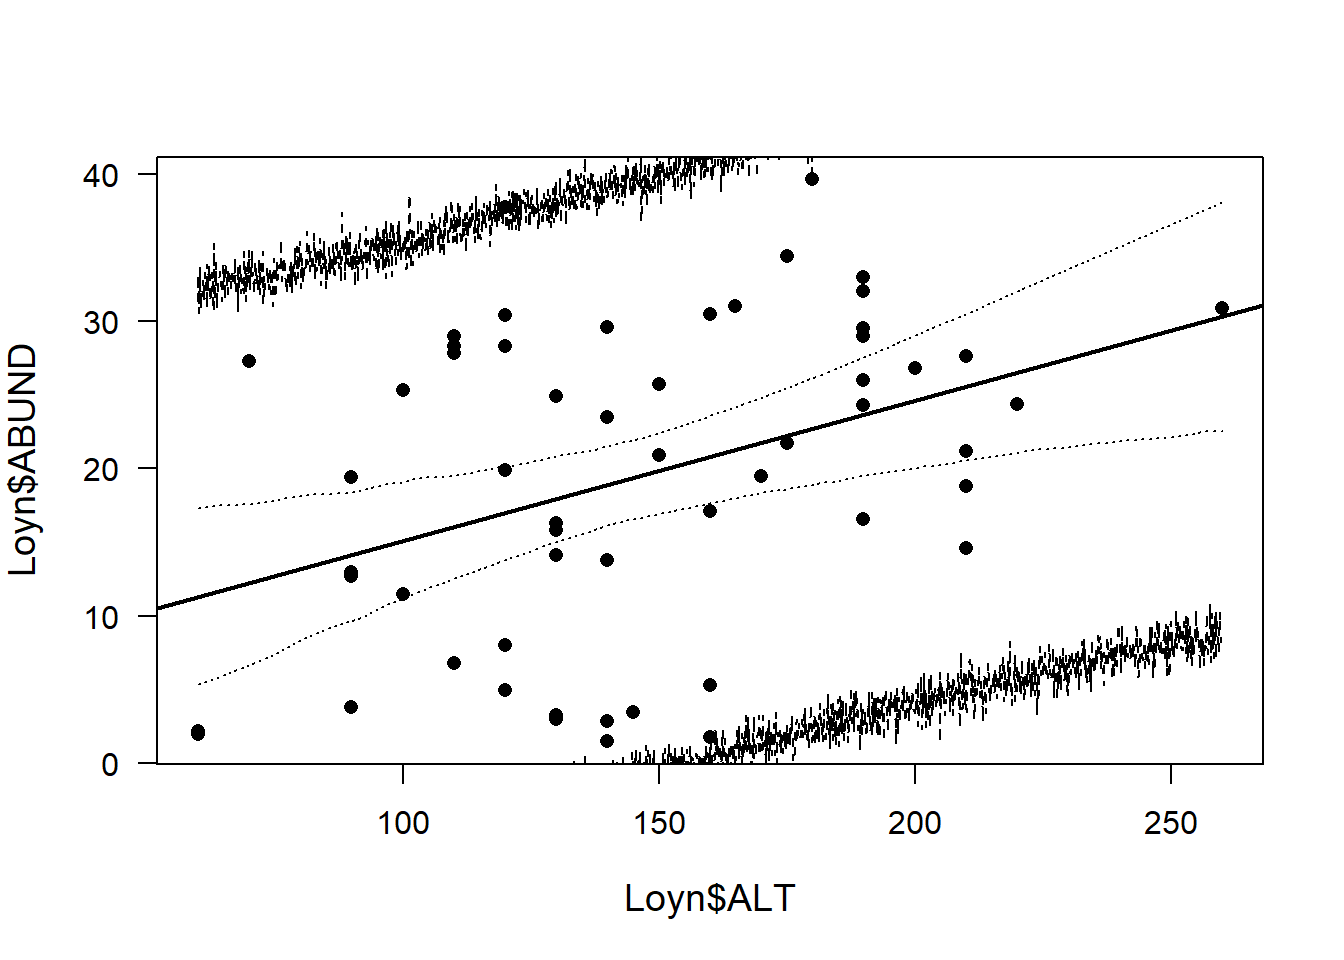
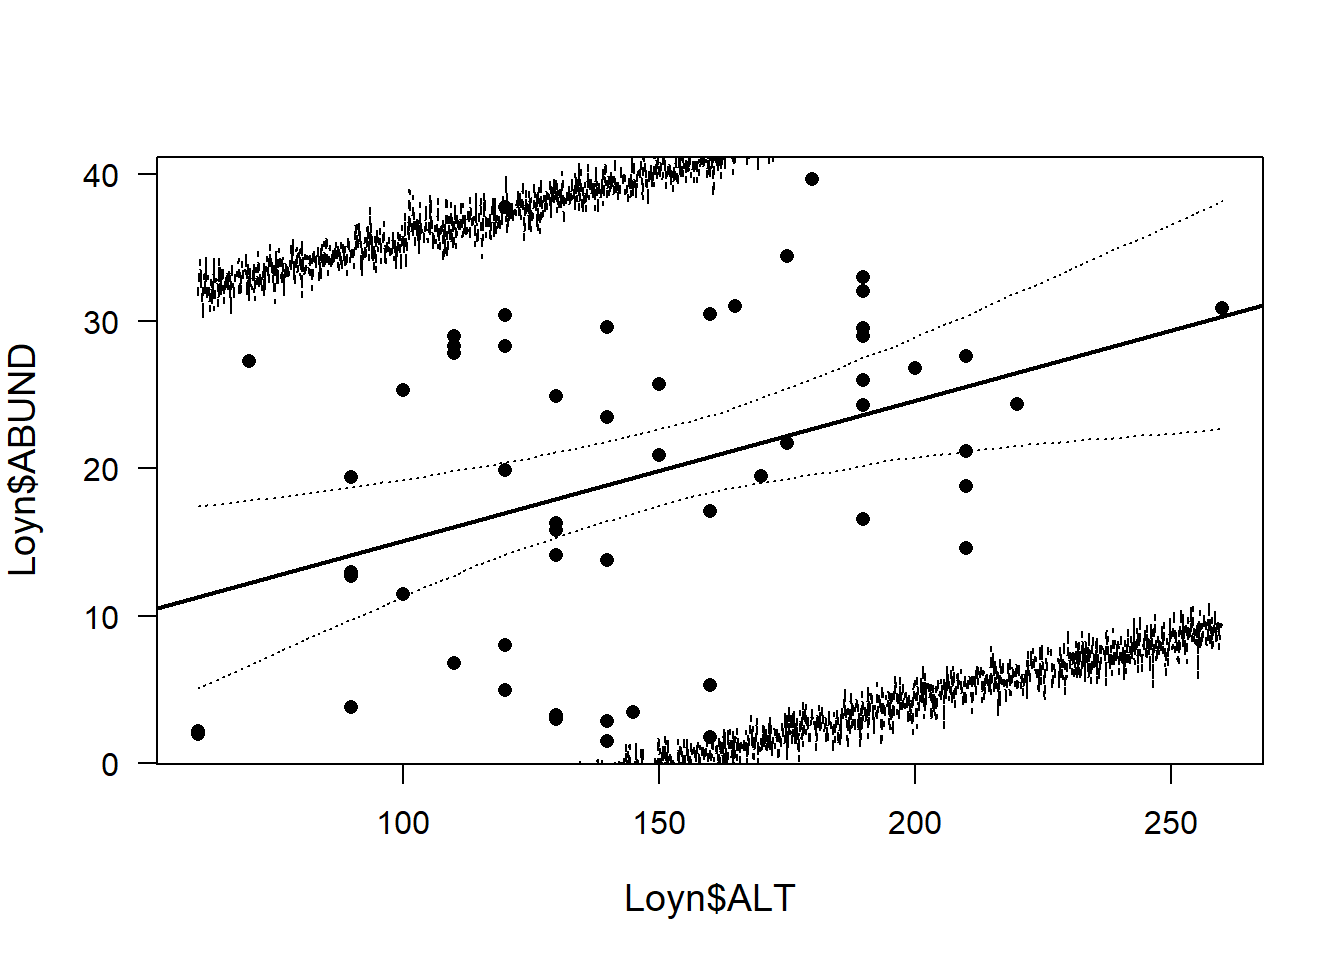
fixed small typos in 05-A and set random seed.

Changed region(s): [[0.4688, 0.625, 0.9062, 0.8125], [0.125, 0.1562, 0.5625, 0.3125]]

diff --git a/05-A-Bayesian-linear-models.html b/05-A-Bayesian-linear-models.html
@@ -725,54 +725,46 @@ M1 &lt;-<span class="st"> </span><span class="kw">lm</span>(ABUND ~<span class="
 <h5>Simulate values for theta and sigma</h5>
 <div class="sourceCode"><pre class="sourceCode r"><code class="sourceCode r"><span class="co">#install.packages(&#39;arm&#39;)</span>
 <span class="kw">library</span>(arm)</code></pre></div>
-<pre><code>## Warning: package &#39;arm&#39; was built under R version 3.3.3</code></pre>
 <pre><code>## Loading required package: MASS</code></pre>
-<pre><code>## Warning: package &#39;MASS&#39; was built under R version 3.3.3</code></pre>
 <pre><code>## Loading required package: Matrix</code></pre>
-<pre><code>## Warning: package &#39;Matrix&#39; was built under R version 3.3.3</code></pre>
 <pre><code>## 
 ## Attaching package: &#39;Matrix&#39;</code></pre>
 <pre><code>## The following object is masked from &#39;package:tidyr&#39;:
 ## 
 ##     expand</code></pre>
 <pre><code>## Loading required package: lme4</code></pre>
-<pre><code>## Warning: package &#39;lme4&#39; was built under R version 3.3.3</code></pre>
 <pre><code>## 
 ## arm (Version 1.9-3, built: 2016-11-21)</code></pre>
 <pre><code>## Working directory is C:/Users/jrcoyle/Documents/Stanford/BIO202/GitHub</code></pre>
 <div class="sourceCode"><pre class="sourceCode r"><code class="sourceCode r">nsim &lt;-<span class="dv">1000</span> <span class="co"># number of simulations can be changed to whatever you want</span>
 bsim &lt;-<span class="st"> </span><span class="kw">sim</span>(M1, <span class="dt">n.sim=</span>nsim)
-<span class="kw">str</span>(sim)</code></pre></div>
-<pre><code>## Formal class &#39;standardGeneric&#39; [package &quot;methods&quot;] with 8 slots
-##   ..@ .Data     :function (object, ...)  
-##   ..@ generic   : atomic [1:1] sim
-##   .. ..- attr(*, &quot;package&quot;)= chr &quot;arm&quot;
-##   ..@ package   : chr &quot;arm&quot;
-##   ..@ group     : list()
-##   ..@ valueClass: chr(0) 
-##   ..@ signature : chr &quot;object&quot;
-##   ..@ default   : NULL
-##   ..@ skeleton  : language (function (object, ...)  stop(&quot;invalid call in method dispatch to &#39;sim&#39; (no default method)&quot;,  ...</code></pre>
+<span class="kw">str</span>(bsim)</code></pre></div>
+<pre><code>## Formal class &#39;sim&#39; [package &quot;arm&quot;] with 2 slots
+##   ..@ coef : num [1:1000, 1:2] 4.22 6.67 8.6 2.58 6.29 ...
+##   .. ..- attr(*, &quot;dimnames&quot;)=List of 2
+##   .. .. ..$ : NULL
+##   .. .. ..$ : chr [1:2] &quot;(Intercept)&quot; &quot;ALT&quot;
+##   ..@ sigma: num [1:1000] 11.18 10.82 10.12 10.28 8.67 ...</code></pre>
 <p>sim() produces an object of class sim that contains “coef” (1000 simulated values for theta, i.e. your parameters) and “sigma” containing the 1000 values for standard deviation.</p>
 </div>
 <div id="summary-statistics-to-describe-posterior-knowledge-about-the-parameters-theta-and-the-variance" class="section level5">
 <h5>Summary statistics to describe posterior knowledge about the parameters (theta) and the variance</h5>
 <div class="sourceCode"><pre class="sourceCode r"><code class="sourceCode r"><span class="kw">apply</span>(<span class="kw">coef</span>(bsim), <span class="dv">2</span>, quantile, <span class="dt">prob=</span><span class="kw">c</span>(<span class="fl">0.025</span>, <span class="fl">0.975</span>)) <span class="co"># parameters</span></code></pre></div>
 <pre><code>##       (Intercept)        ALT
-## 2.5%    -3.609984 0.03187504
-## 97.5%   15.104432 0.15341193</code></pre>
+## 2.5%    -4.289248 0.02918328
+## 97.5%   15.312500 0.15793703</code></pre>
 <div class="sourceCode"><pre class="sourceCode r"><code class="sourceCode r"><span class="kw">quantile</span>(bsim@sigma, <span class="dt">prob=</span><span class="kw">c</span>(<span class="fl">0.025</span>, <span class="fl">0.975</span>)) <span class="co"># variance</span></code></pre></div>
 <pre><code>##      2.5%     97.5% 
-##  8.324295 12.485257</code></pre>
+##  8.372159 12.366565</code></pre>
 </div>
 <div id="what-if-we-want-to-test-hypotheses-about-our-data-using-the-posterior-distribution" class="section level5">
 <h5>What if we want to test hypotheses about our data using the posterior distribution?</h5>
 <p><strong>H1.</strong></p>
 <p><strong>H2.</strong> How sure are we that the slope parameter for ALT is larger than .05, .1, .2?</p>
 <div class="sourceCode"><pre class="sourceCode r"><code class="sourceCode r"><span class="kw">sum</span>(<span class="kw">coef</span>(bsim)[,<span class="dv">2</span>]&gt;.<span class="dv">05</span>)/nsim <span class="co"># 93% confident that the slope is greater than .05</span></code></pre></div>
-<pre><code>## [1] 0.927</code></pre>
+<pre><code>## [1] 0.92</code></pre>
 <div class="sourceCode"><pre class="sourceCode r"><code class="sourceCode r"><span class="kw">sum</span>(<span class="kw">coef</span>(bsim)[,<span class="dv">2</span>]&gt;.<span class="dv">1</span>)/nsim <span class="co"># 44% confident that the slope is greater than .1</span></code></pre></div>
-<pre><code>## [1] 0.433</code></pre>
+<pre><code>## [1] 0.449</code></pre>
 <div class="sourceCode"><pre class="sourceCode r"><code class="sourceCode r"><span class="kw">sum</span>(<span class="kw">coef</span>(bsim)[,<span class="dv">2</span>]&gt;.<span class="dv">2</span>)/nsim <span class="co"># 0.1% confident that the slope is greater than .2</span></code></pre></div>
 <pre><code>## [1] 0</code></pre>
 </div>
@@ -832,11 +824,11 @@ for(i in <span class="dv">1</span>:nsim) newy[,i] &lt;-<span class="st"> </span>
 <h5>From these predicted future values, we can give an estimate for the proportion of observations (i.e. density of birds) greater than #, given the mean altitude =</h5>
 <p><strong>EX1.</strong> If ALT=60, what is the estimated proportion of observations greater than 20?</p>
 <div class="sourceCode"><pre class="sourceCode r"><code class="sourceCode r"><span class="kw">sum</span>(newy[newdat$ALT==<span class="dv">60</span>,]&gt;<span class="dv">20</span>)/nsim</code></pre></div>
-<pre><code>## [1] 0.19</code></pre>
+<pre><code>## [1] 0.198</code></pre>
 <p>Thus we expect 20% of future observations with ALT=60 to have a density of birds greater than 20</p>
 <p><strong>EX2.</strong> IF ALT=120, what is the estimated proportion of observations greater than 20?</p>
 <div class="sourceCode"><pre class="sourceCode r"><code class="sourceCode r"><span class="kw">sum</span>(newy[newdat$ALT==<span class="dv">120</span>,]&gt;<span class="dv">20</span>)/nsim</code></pre></div>
-<pre><code>## [1] 0.35</code></pre>
+<pre><code>## [1] 0.36</code></pre>
 <p>Thus we expect 39% of future observations with ALT=120 to have a density of birds greater than 20</p>
 <p>Another reason to learn this is because once you have a more complicated model (e.g. mixed models), the frequentist methods to obtain confidence intervals of fitted values are much more complicated than the Bayesian method presented here. The code we learned here can be used for mixed models and generalized linear mixed models with minor changes.</p>
 </div>
